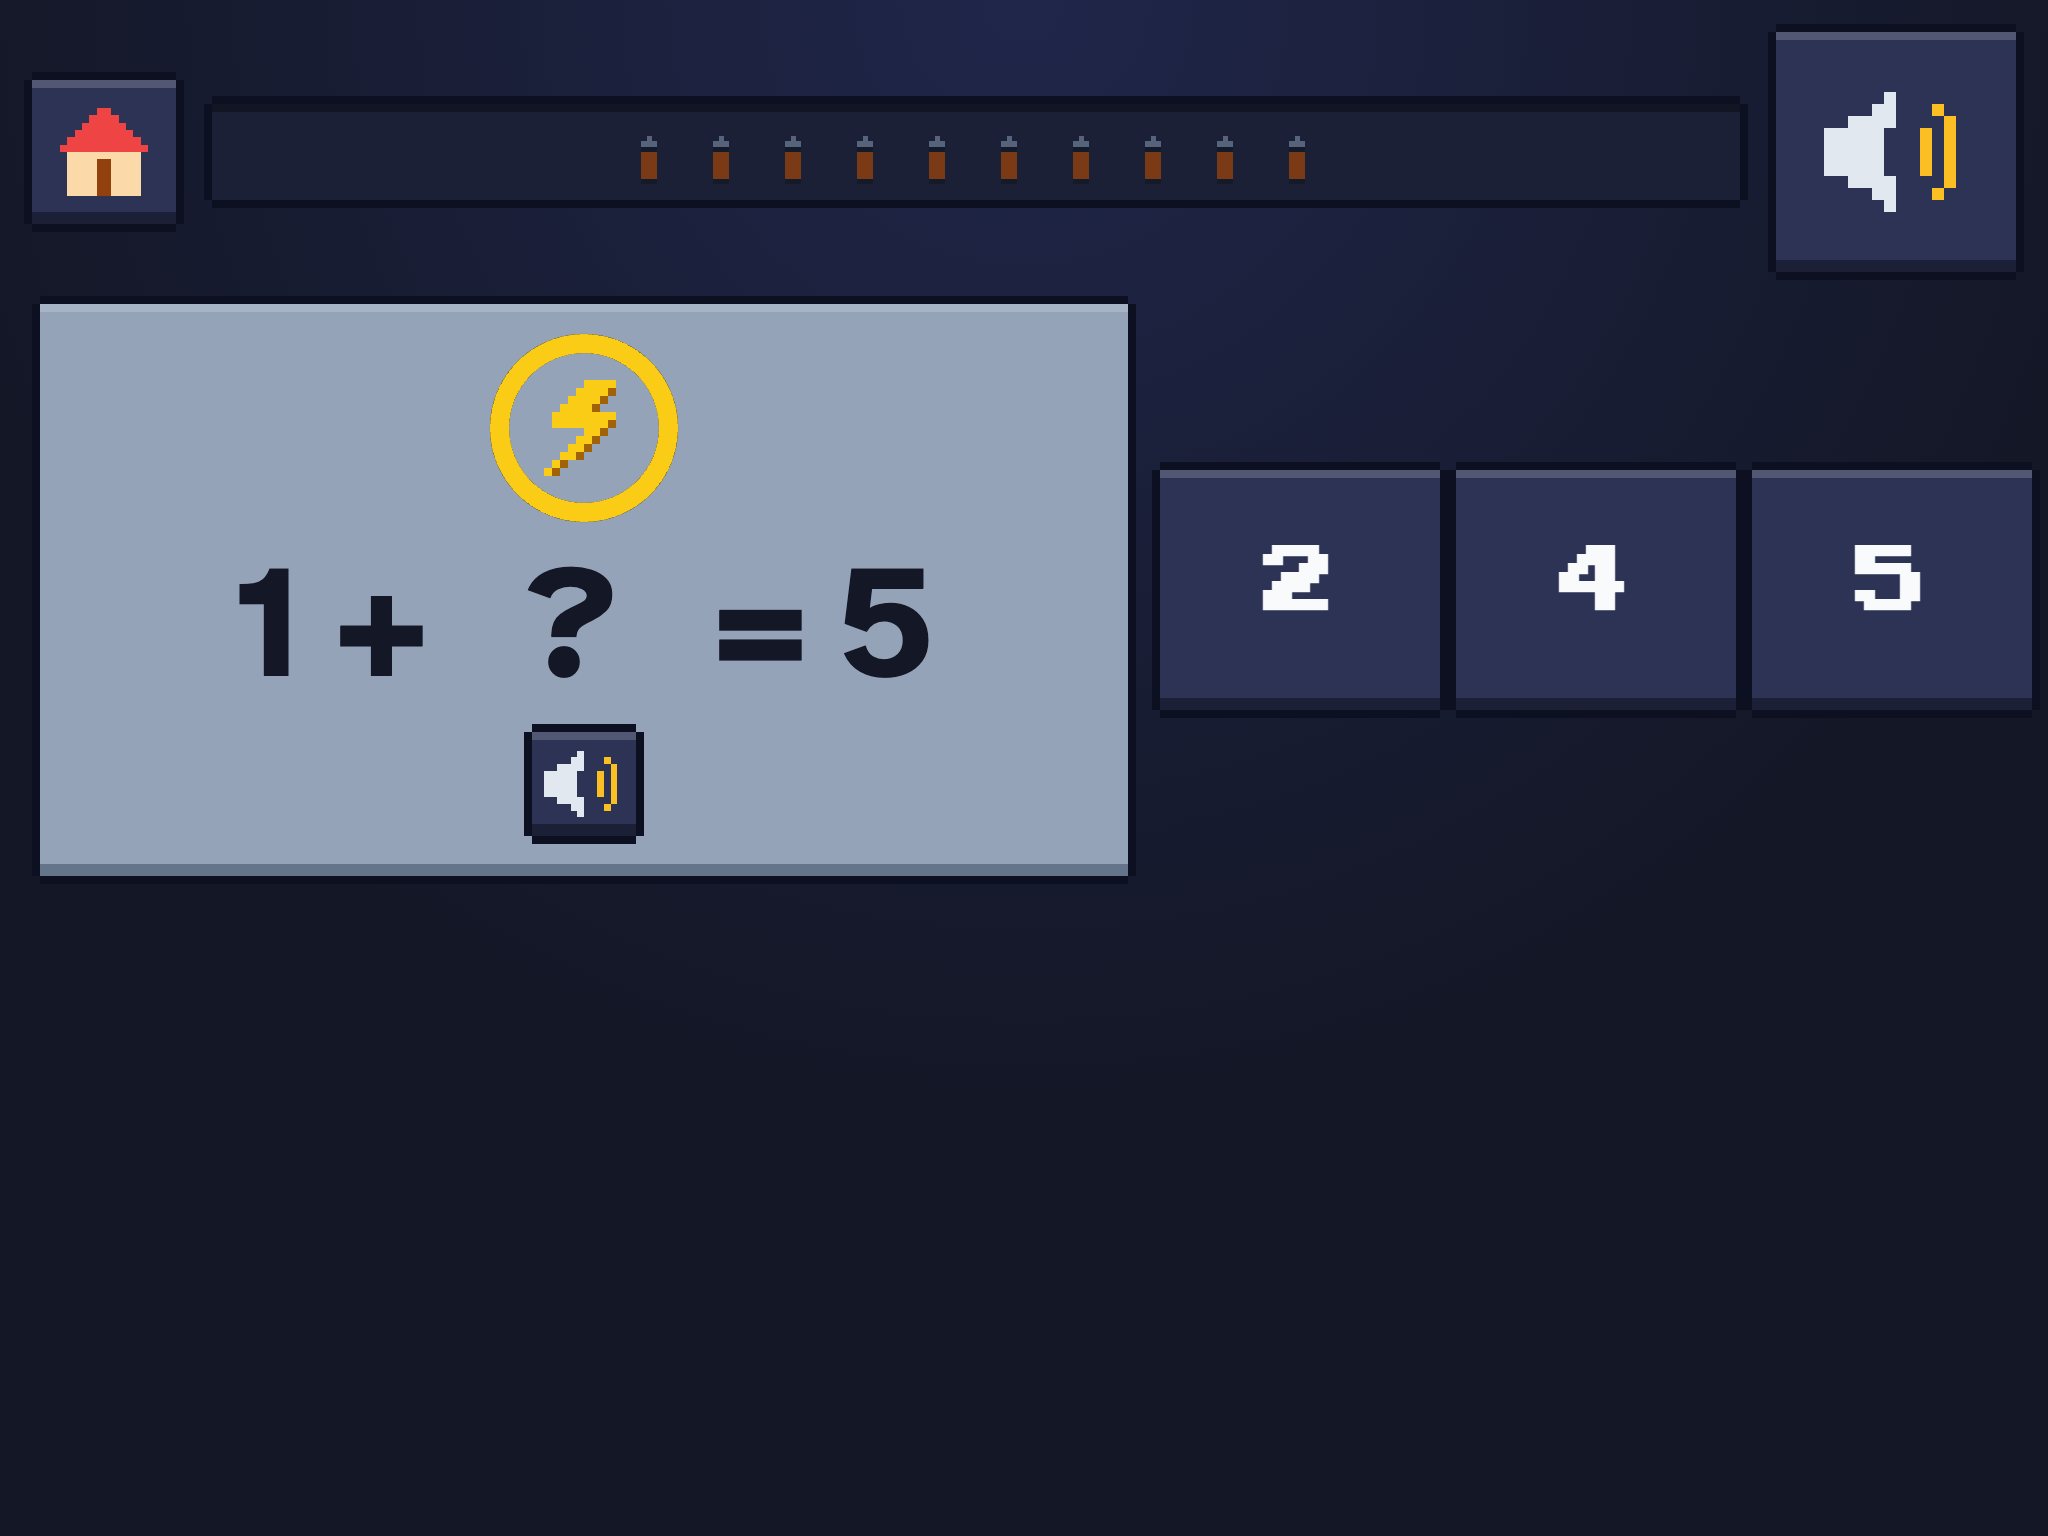
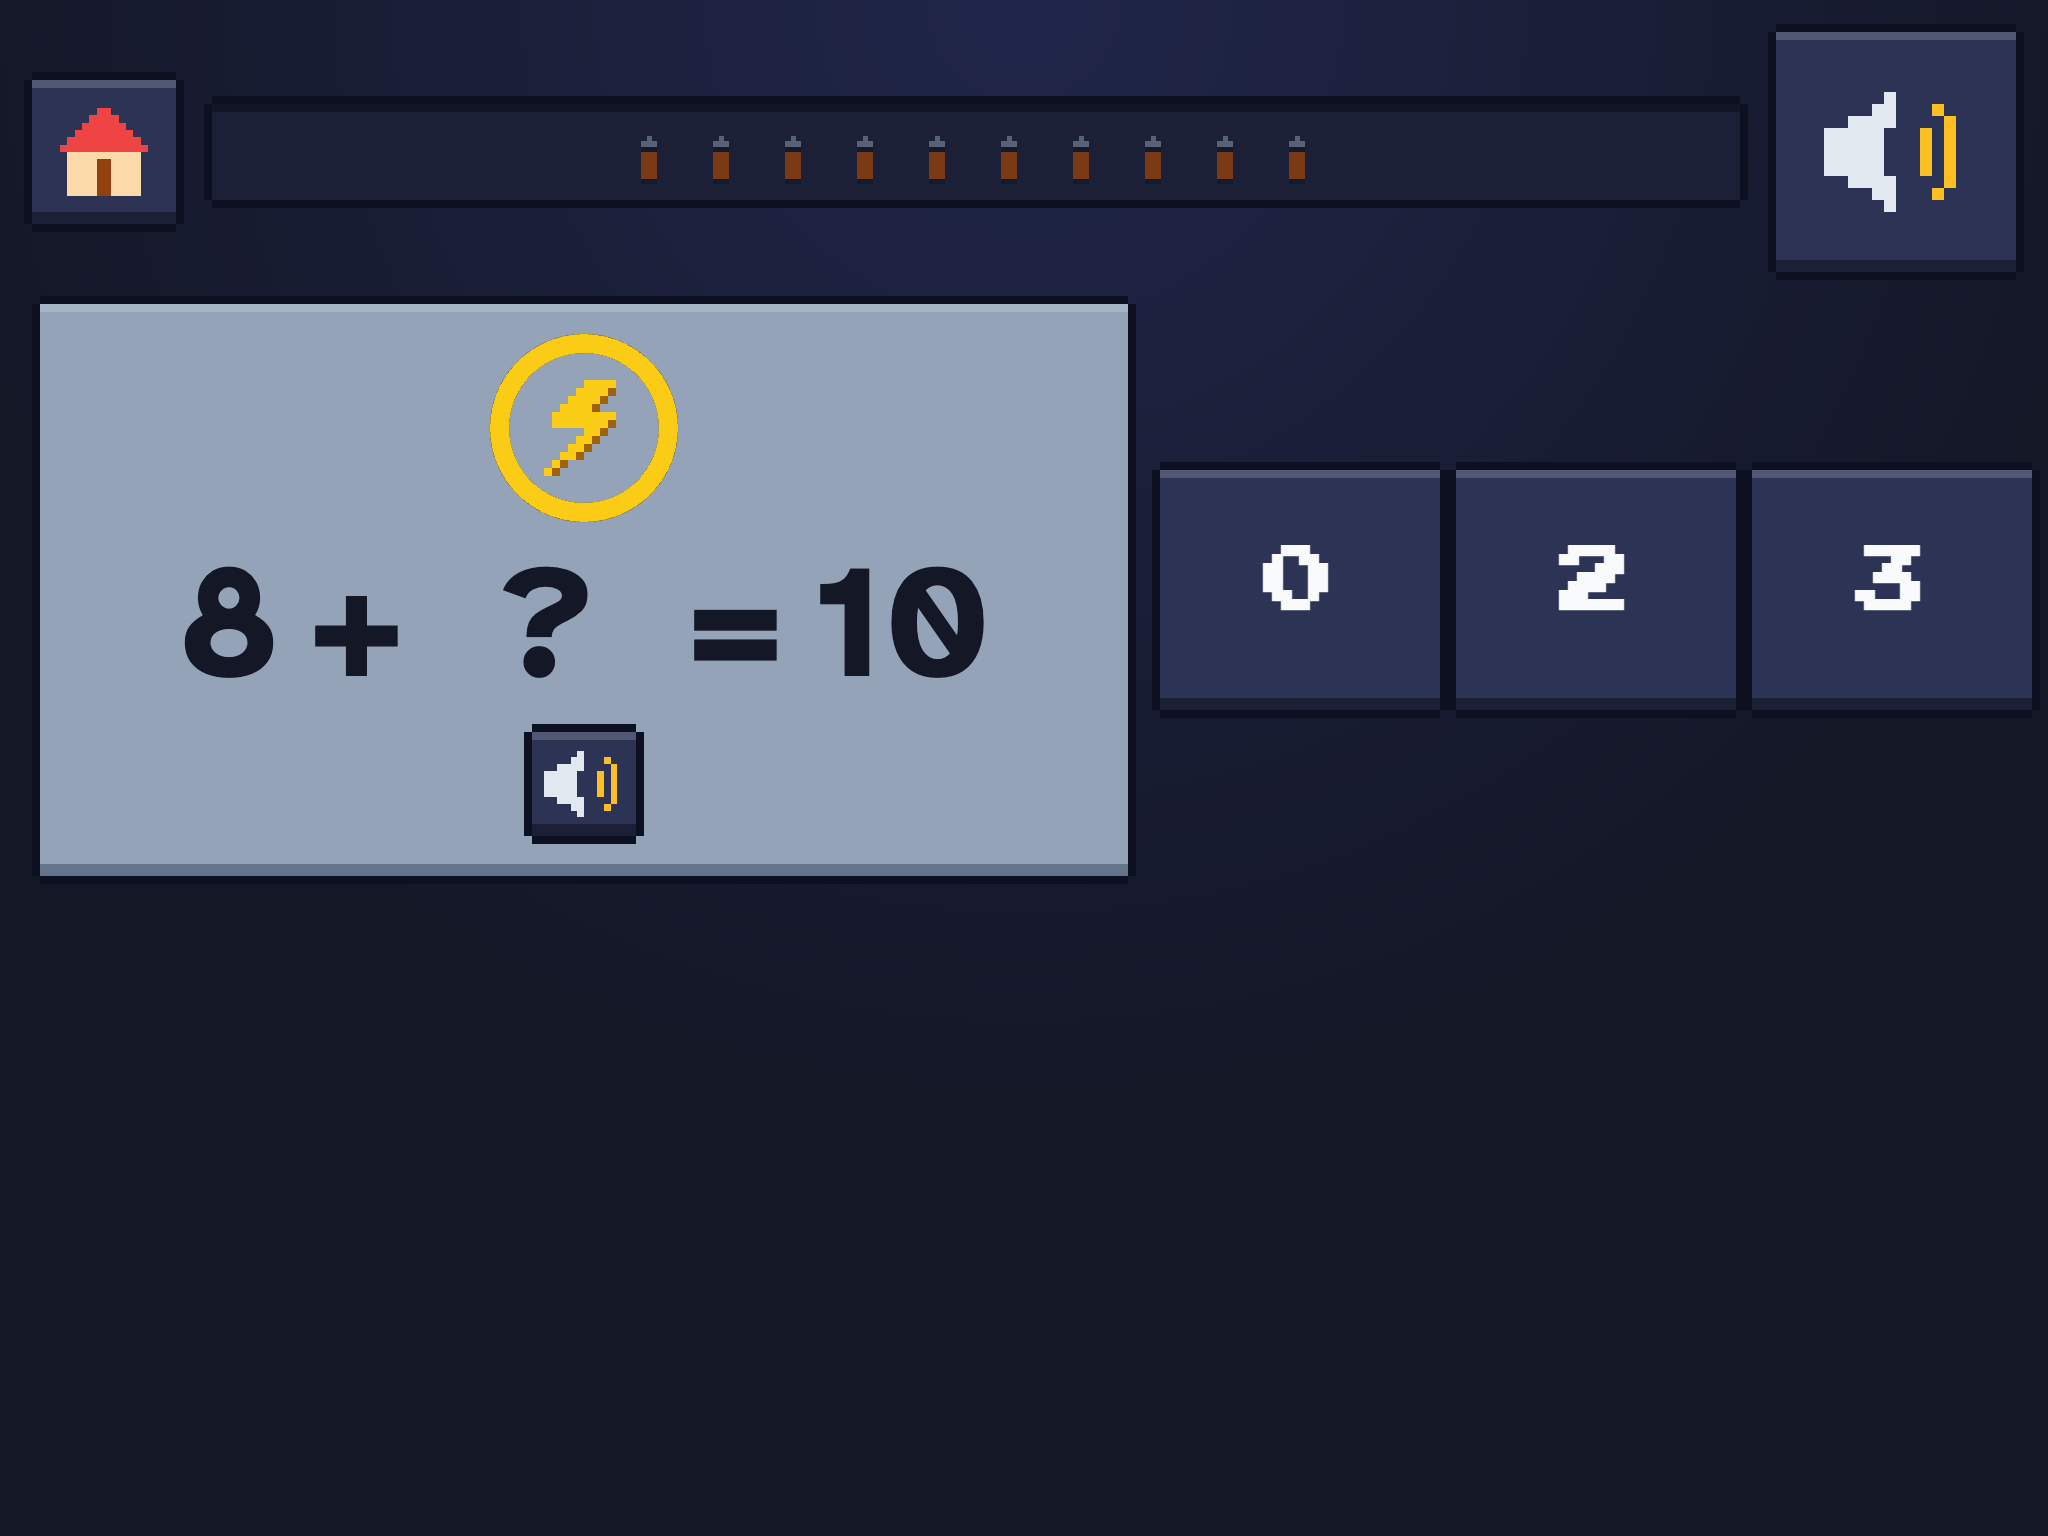
lightning-make10-cards: screenshot a make 10 card (total 10)

diff --git a/e2e/lightningMake10.e2e.ts b/e2e/lightningMake10.e2e.ts
@@ -33,7 +33,7 @@ test('pre-reader: make 10 and missing number cards read "a + ? = total" and carr
     const flagged = await page.locator('.lr-choice[data-answer="true"]').allTextContents();
     expect(flagged.map((t) => Number(t.trim()))).toEqual([answer]);
     if (gap) gapCards++;
-    if (gap && !shot) {
+    if (gap?.[2] === '10' && !shot) {
       await page.screenshot({ path: 'docs/screenshots/lightning-fix/make10-1024x768.png' });
       shot = true;
     }
@@ -41,6 +41,7 @@ test('pre-reader: make 10 and missing number cards read "a + ? = total" and carr
     await expect(page.getByTestId('lightning')).toHaveAttribute('data-phase', 'ask');
   }
   expect(gapCards).toBeGreaterThan(0);
+  expect(shot, 'a make 10 card (a + ? = 10) was shown').toBe(true);
   await holdHome(page);
   await expect(page.getByTestId('lr-end')).toBeVisible();
 });
